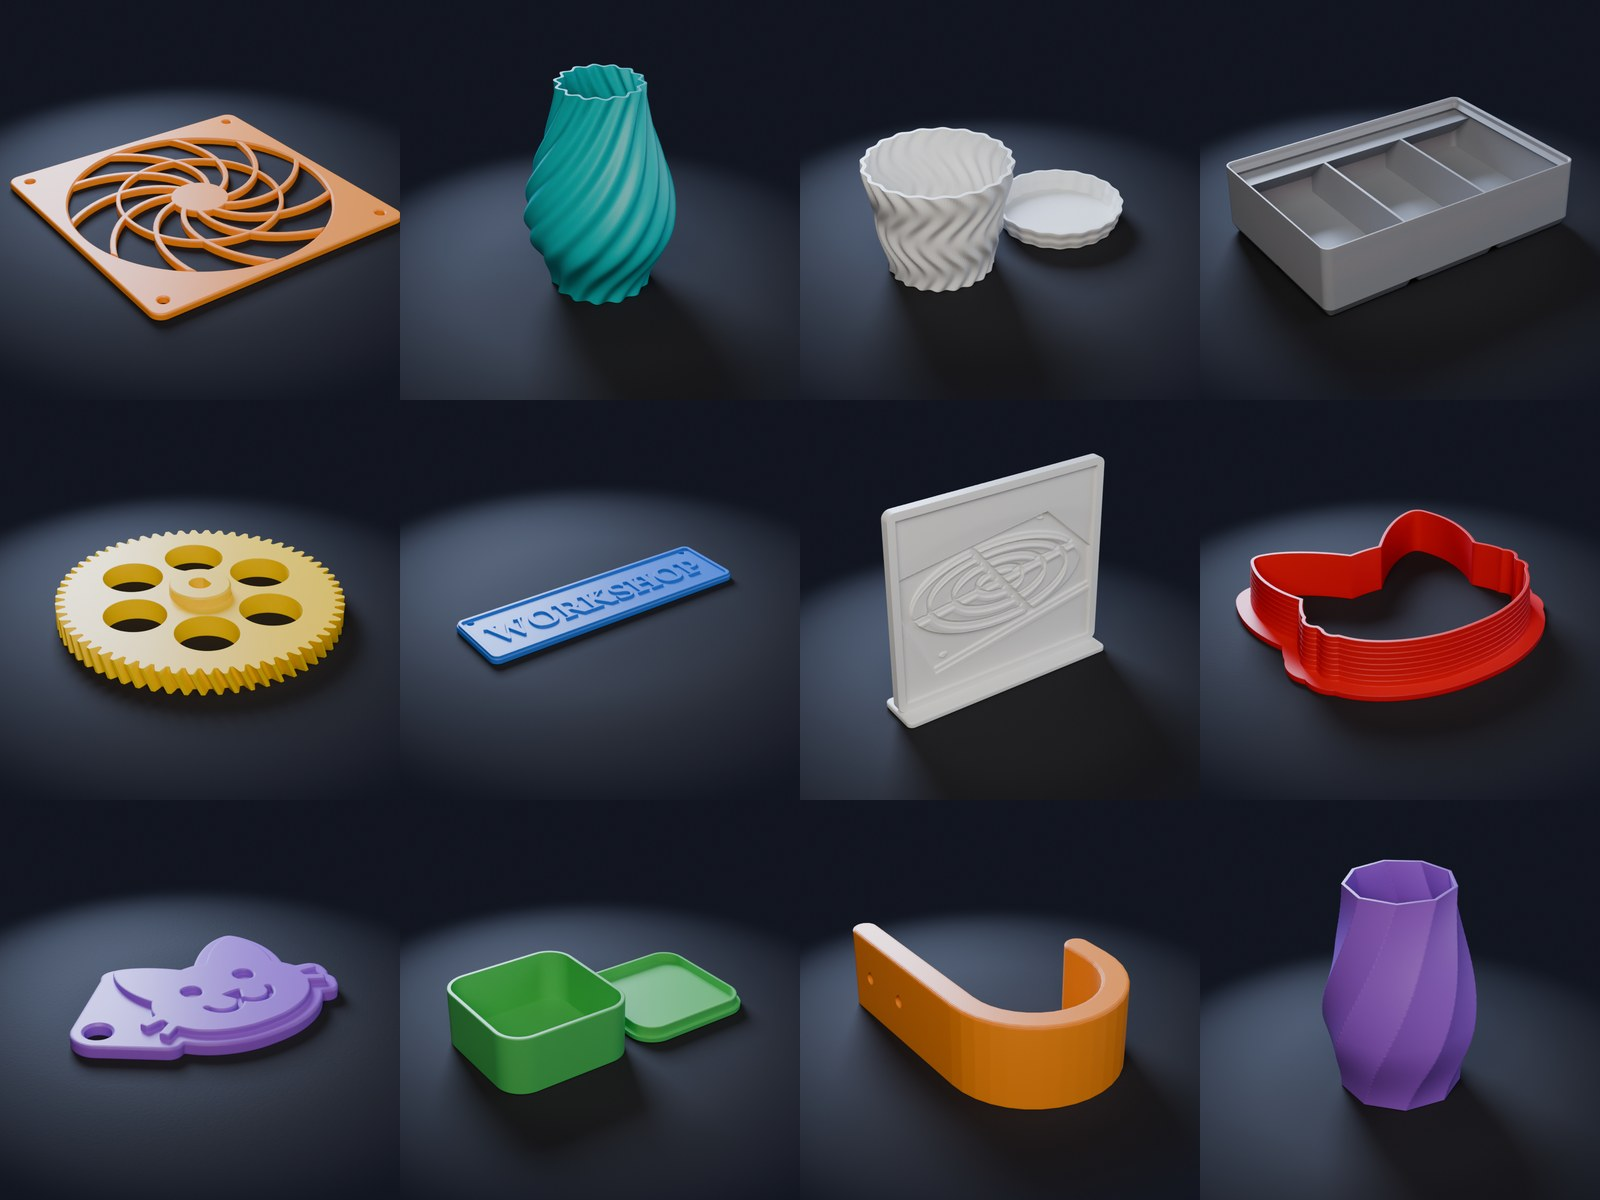
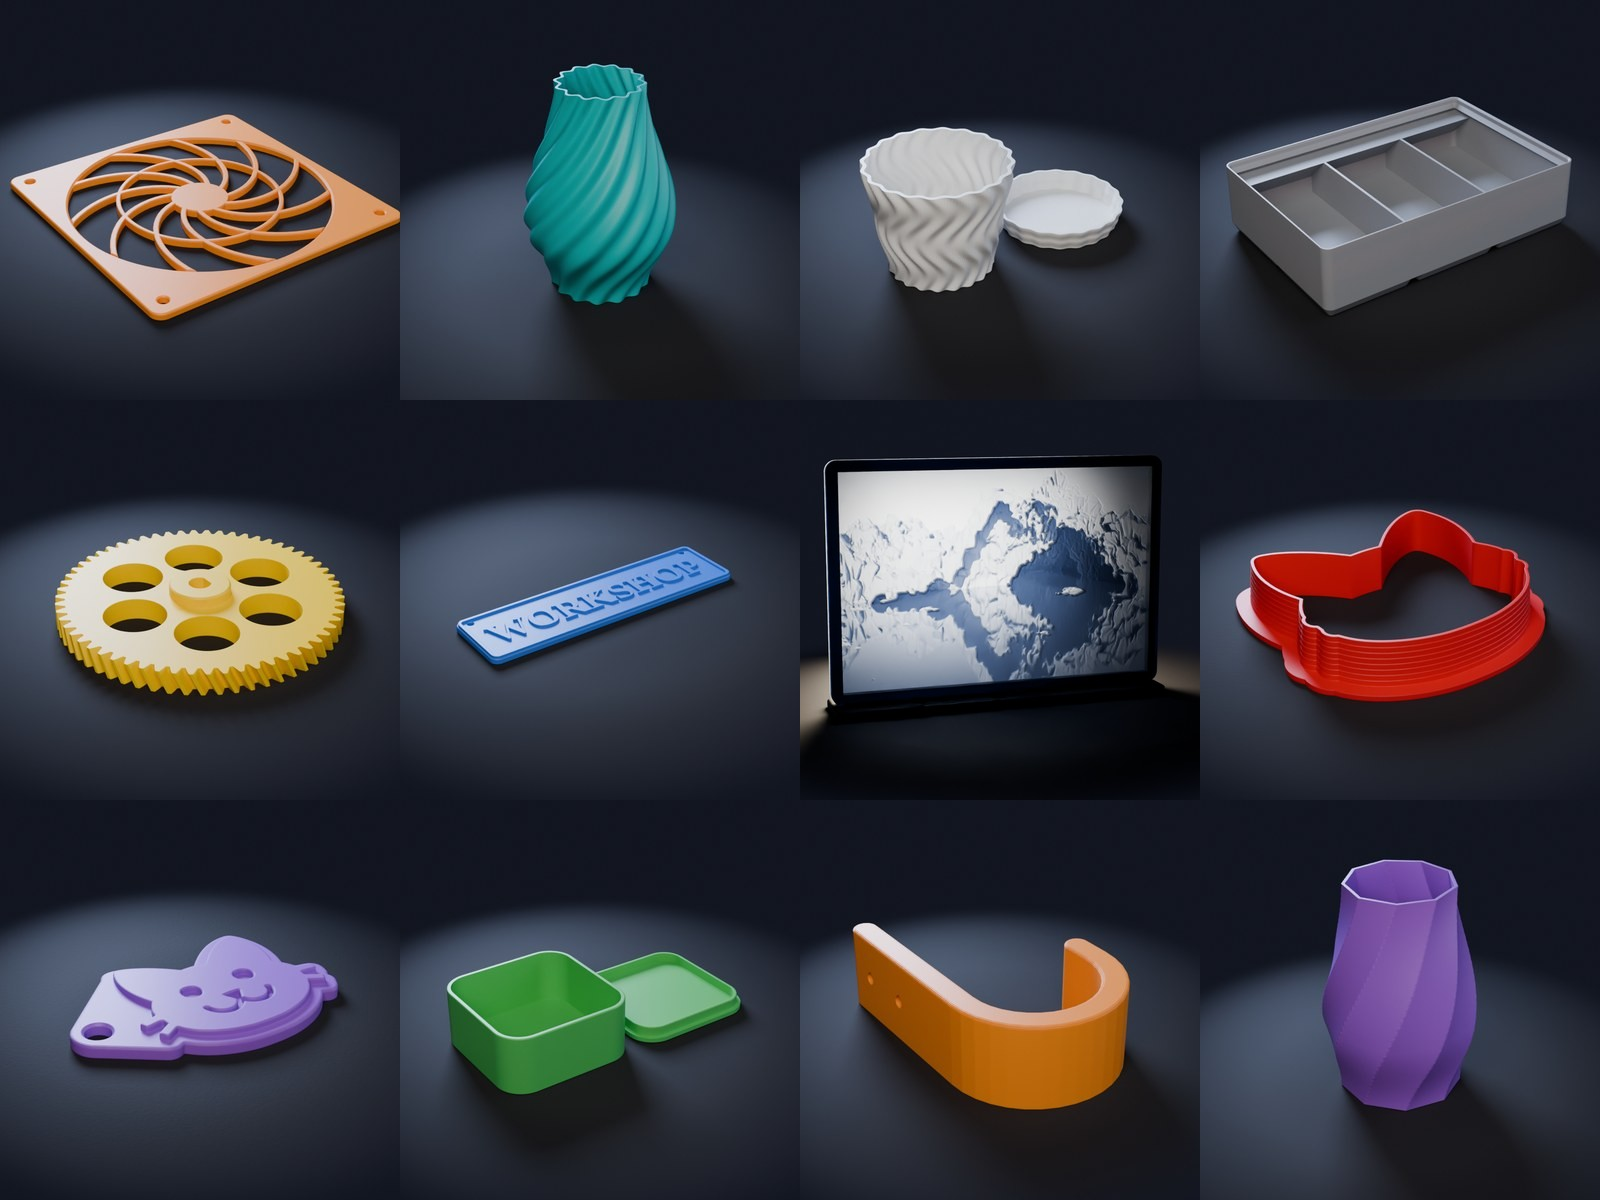
Backlit lithophane stills and a mountain lake picture for the gallery
still.py gets STILL_BACKLIT=1: frosted plastic with a volume that absorbs
per millimeter, lit from behind, so thick areas go dark like real PLA.
tools/mountains.py renders the lake picture so its rights are ours.

Changed region(s): [[0.5, 0.37, 0.75, 0.6783]]

diff --git a/tools/still.py b/tools/still.py
@@ -2,7 +2,8 @@
 
 blender -b --python tools/still.py -- <part.stl> <out.png> [color] [res] [samples]
 
-color is a PLA name from COLORS. The mesh is the STL as written; it is only centered on the bed
+color is a PLA name from COLORS. STILL_BACKLIT=1 is for lithophanes: thin white PLA lit from behind,
+seen from the front. The mesh is the STL as written; it is only centered on the bed
 and framed by its own size. Cycles on the CPU (set STILL_GPU=1 for OptiX), denoised.
 """
 import math
@@ -22,6 +23,7 @@ COLORS = {"orange": (0.93, 0.30, 0.05), "teal": (0.02, 0.42, 0.42), "white": (0.
 PLA = COLORS[argv[2] if len(argv) > 2 else "orange"]
 RES = int(argv[3]) if len(argv) > 3 else 1200
 SAMPLES = int(argv[4]) if len(argv) > 4 else 96
+BACKLIT = bool(os.environ.get("STILL_BACKLIT"))
 
 bpy.ops.wm.read_factory_settings(use_empty=True)
 scene = bpy.context.scene
@@ -61,9 +63,19 @@ def pla_material():
     b = n["Principled BSDF"]
     b.inputs["Base Color"].default_value = (*PLA, 1)
     b.inputs["Roughness"].default_value = 0.45
-    b.inputs["Subsurface Weight"].default_value = 0.06
-    b.inputs["Subsurface Radius"].default_value = (1.0, 0.4, 0.2)
-    b.inputs["Subsurface Scale"].default_value = 0.6
+    b.inputs["Subsurface Weight"].default_value = 1.0 if BACKLIT else 0.06
+    b.inputs["Subsurface Radius"].default_value = (1.0, 0.85, 0.6) if BACKLIT else (1.0, 0.4, 0.2)
+    b.inputs["Subsurface Scale"].default_value = 0.5 if BACKLIT else 0.6
+    if BACKLIT:  # frosted plastic that absorbs and scatters per millimeter, so thick areas go dark (cool LED look)
+        b.inputs["Transmission Weight"].default_value = 1.0
+        b.inputs["Roughness"].default_value = 0.7
+        b.inputs["Subsurface Weight"].default_value = 0.0
+        vol = n.new("ShaderNodeVolumePrincipled")
+        vol.inputs["Color"].default_value = (1.0, 0.82, 0.6, 1)
+        vol.inputs["Density"].default_value = 1.4
+        vol.inputs["Anisotropy"].default_value = 0.5
+        vol.inputs["Absorption Color"].default_value = (0.22, 0.5, 0.85, 1)
+        l.new(vol.outputs[0], n["Material Output"].inputs["Volume"])
     bev = n.new("ShaderNodeBevel")  # shading only: the mesh is not changed
     bev.inputs["Radius"].default_value = 0.3
     l.new(bev.outputs["Normal"], b.inputs["Normal"])
@@ -135,7 +147,7 @@ cam_data.clip_start = 1
 cam_data.clip_end = 100000
 cam = bpy.data.objects.new("cam", cam_data)
 scene.collection.objects.link(cam)
-el, az = math.radians(30), math.radians(-35)
+el, az = (math.radians(10), math.radians(-18)) if BACKLIT else (math.radians(30), math.radians(-35))
 dist = S * 3.3
 target = Vector((0, 0, size.z * 0.42))
 cam.location = target + Vector((dist * math.cos(el) * math.sin(az), -dist * math.cos(el) * math.cos(az), dist * math.sin(el)))
@@ -158,6 +170,9 @@ def light(name, energy, loc, sz, color):
 
 
 k = S / 120.0
+if BACKLIT:  # a warm panel behind the picture, the room nearly dark
+    light("back", 8.0e5 * k * k, (0, S * 0.5, size.z * 0.5), S * 0.6, (1.0, 0.86, 0.66))
+    k *= 0.08
 light("key", 1.9e6 * k * k, (-S * 2.0, -S * 2.2, S * 3.0), S * 2.4, (1.0, 0.96, 0.9))
 light("fill", 0.6e6 * k * k, (S * 2.6, -S * 1.6, S * 1.4), S * 2.5, (0.75, 0.82, 1.0))
 light("rim", 3.0e6 * k * k, (S * 0.6, S * 2.6, S * 1.6), S * 1.4, (0.55, 0.68, 1.0))

diff --git a/tools/mountains.py b/tools/mountains.py
@@ -1,0 +1,85 @@
+"""The mountain picture in examples/images, made here so its rights are ours.
+
+blender -b -t 8 --python tools/mountains.py -- <out.png> [width] [samples]
+"""
+import math
+import sys
+
+import bpy
+
+argv = sys.argv[sys.argv.index("--") + 1:]
+OUT = argv[0]
+W = int(argv[1]) if len(argv) > 1 else 900
+SAMPLES = int(argv[2]) if len(argv) > 2 else 32
+
+bpy.ops.wm.read_factory_settings(use_empty=True)
+scene = bpy.context.scene
+scene.render.engine = "CYCLES"
+scene.cycles.device = "CPU"
+scene.cycles.samples = SAMPLES
+scene.cycles.use_denoising = True
+scene.render.resolution_x, scene.render.resolution_y = W, int(W * 2 / 3)
+scene.view_settings.view_transform = "AgX"
+scene.view_settings.look = "AgX - High Contrast"
+
+# terrain: a far range of big ridges and a low near shore, each a subdivided plane pushed up by noise
+lands = []
+for loc, size, scale, strength in (((0, 340, -10), 480, 60, 170), ((0, 40, 0), 160, 14, 11)):
+    bpy.ops.mesh.primitive_plane_add(size=size, location=loc)
+    land = bpy.context.active_object
+    sub = land.modifiers.new("sub", "SUBSURF")
+    sub.subdivision_type = "SIMPLE"
+    sub.levels = sub.render_levels = 9
+    for name, sc, st, depth in (("ridges", scale, strength, 6), ("rocks", scale / 12, strength / 14, 2)):
+        tex = bpy.data.textures.new(name, "CLOUDS")
+        tex.noise_scale = sc
+        tex.noise_depth = depth
+        d = land.modifiers.new(name, "DISPLACE")
+        d.texture = tex
+        d.strength = st
+        d.mid_level = 0.35
+        d.texture_coords = "GLOBAL"
+    lands.append(land)
+mat = bpy.data.materials.new("rock")
+mat.use_nodes = True
+b = mat.node_tree.nodes["Principled BSDF"]
+b.inputs["Base Color"].default_value = (0.22, 0.22, 0.23, 1)
+b.inputs["Roughness"].default_value = 0.9
+for land in lands:
+    land.data.materials.append(mat)
+
+# lake in the valley
+bpy.ops.mesh.primitive_plane_add(size=900, location=(0, 200, 4))
+water = bpy.data.materials.new("water")
+water.use_nodes = True
+wb = water.node_tree.nodes["Principled BSDF"]
+wb.inputs["Base Color"].default_value = (0.05, 0.06, 0.08, 1)
+wb.inputs["Roughness"].default_value = 0.05
+bpy.context.active_object.data.materials.append(water)
+
+world = bpy.data.worlds.new("w")
+scene.world = world
+world.use_nodes = True
+sky = world.node_tree.nodes.new("ShaderNodeTexSky")
+sky.sun_elevation = math.radians(9)
+sky.sun_rotation = math.radians(180)
+world.node_tree.links.new(sky.outputs[0], world.node_tree.nodes["Background"].inputs[0])
+world.node_tree.nodes["Background"].inputs[1].default_value = 0.25
+
+sun = bpy.data.objects.new("sun", bpy.data.lights.new("sun", "SUN"))
+sun.data.energy = 2.5
+sun.data.angle = math.radians(2)
+sun.rotation_euler = (math.radians(81), 0, math.radians(180))
+scene.collection.objects.link(sun)
+
+cam = bpy.data.objects.new("cam", bpy.data.cameras.new("cam"))
+cam.data.lens = 40
+cam.location = (0, -40, 22)
+cam.rotation_euler = (math.radians(86), 0, 0)
+scene.collection.objects.link(cam)
+scene.camera = cam
+
+scene.render.image_settings.file_format = "PNG"
+scene.render.image_settings.color_mode = "BW"
+scene.render.filepath = OUT
+bpy.ops.render.render(write_still=True)

diff --git a/examples/images/README.md b/examples/images/README.md
@@ -3,3 +3,4 @@
 - cat.png, rabbit.png, tree.png: icons from Material Design Icons (Apache License 2.0), drawn with
   the JetBrainsMono Nerd Font.
 - fan_guard_render.png: a Blender render of a fan guard from this project.
+- mountains.png: a Blender render made by tools/mountains.py, for lithophanes.
